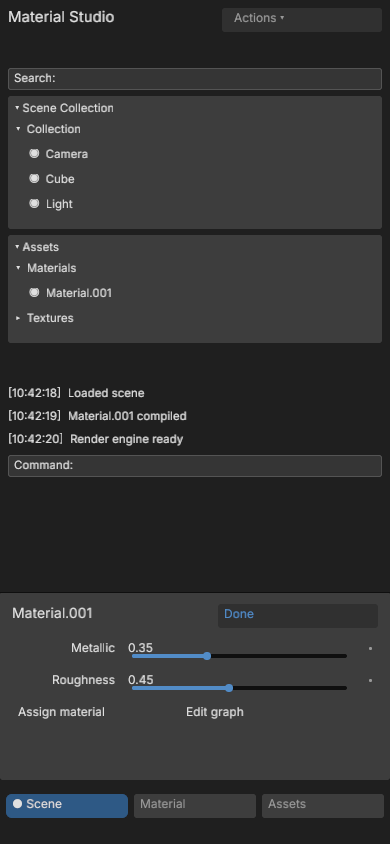
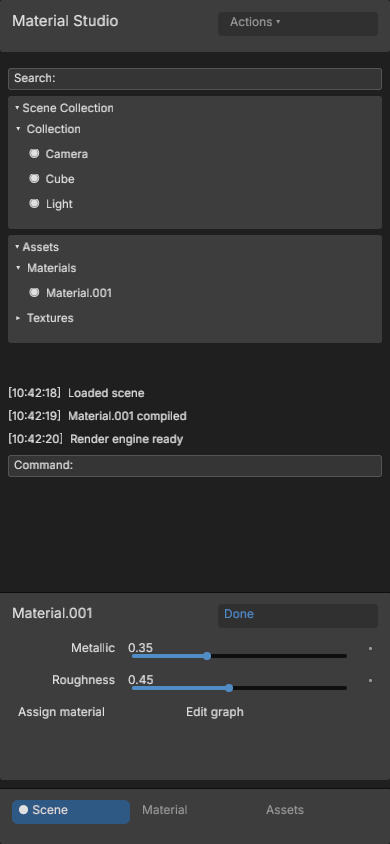
Paint chrome appearance surfaces across desktop and compact layouts

Changed region(s): [[0.0, 0.9242, 1.0, 1.0], [0.0, 0.0, 1.0, 0.0616]]

diff --git a/crates/bbui/src/chrome.rs b/crates/bbui/src/chrome.rs
@@ -51,7 +51,7 @@ impl Default for DesktopChromeAppearance {
         let mut control_style = chrome_style(
             16.0,
             ThemeColorToken::MutedText,
-            Some(ThemeColorToken::Surface),
+            Some(ThemeColorToken::Background),
         );
         control_style.set(UiStyleProperty::CornerRadius, UiStyleValue::Scalar(5.0));
         Self {
@@ -66,11 +66,7 @@ impl Default for DesktopChromeAppearance {
             close_label: "×".into(),
             show_window_controls: true,
             surface_style,
-            title_style: chrome_style(
-                14.0,
-                ThemeColorToken::Text,
-                Some(ThemeColorToken::Background),
-            ),
+            title_style: chrome_style(14.0, ThemeColorToken::Text, Some(ThemeColorToken::Surface)),
             menu_style: chrome_style(
                 12.0,
                 ThemeColorToken::MutedText,
@@ -273,14 +269,17 @@ impl DesktopChrome {
                 );
             }
         }
-        WidgetNode::row(row)
-            .with_key("chrome:desktop")
-            .with_role("window-chrome")
+        WidgetNode::boxed([WidgetNode::row(row)
             .with_width(UiLength::Fill(1.0))
-            .with_height(UiLength::Px(appearance.height))
-            .with_padding(appearance.padding)
-            .with_gap(appearance.gap)
-            .with_style(appearance.surface_style.clone())
+            .with_height(UiLength::Fill(1.0))
+            .with_gap(appearance.gap)])
+        .with_key("chrome:desktop")
+        .with_role("box")
+        .with_width(UiLength::Fill(1.0))
+        .with_height(UiLength::Px(appearance.height))
+        .with_padding(appearance.padding)
+        .with_gap(appearance.gap)
+        .with_style(appearance.surface_style.clone())
     }
 }
 
@@ -335,7 +334,7 @@ impl MobileChrome {
         sheet: Option<WidgetNode>,
         appearance: &MobileChromeAppearance,
     ) -> WidgetNode {
-        let toolbar = WidgetNode::row([
+        let toolbar = WidgetNode::boxed([WidgetNode::row([
             WidgetNode::label(&self.title)
                 .with_width(UiLength::Fill(1.0))
                 .with_style(appearance.title_style.clone()),
@@ -343,8 +342,10 @@ impl MobileChrome {
                 .with_key("chrome:mobile:commands")
                 .with_style(appearance.menu_style.clone()),
         ])
+        .with_width(UiLength::Fill(1.0))
+        .with_height(UiLength::Fill(1.0))])
         .with_key("chrome:mobile:toolbar")
-        .with_role("mobile-toolbar")
+        .with_role("box")
         .with_height(UiLength::Px(appearance.toolbar_height))
         .with_padding(UiEdges::all(8.0))
         .with_style(appearance.toolbar_style.clone());
@@ -376,7 +377,7 @@ impl MobileChrome {
             );
         }
         body.push(
-            WidgetNode::row(self.navigation.iter().map(|item| {
+            WidgetNode::boxed([WidgetNode::row(self.navigation.iter().map(|item| {
                 let label = if self.selected.as_deref() == Some(&item.id) {
                     format!("{} {}", appearance.selected_indicator, item.label)
                 } else {
@@ -393,8 +394,11 @@ impl MobileChrome {
                         appearance.navigation_item_style.clone()
                     })
             }))
+            .with_width(UiLength::Fill(1.0))
+            .with_height(UiLength::Fill(1.0))
+            .with_gap(6.0)])
             .with_key("chrome:mobile:bottom-nav")
-            .with_role("mobile-bottom-nav")
+            .with_role("box")
             .with_tab_list()
             .with_height(UiLength::Px(appearance.navigation_height))
             .with_padding(UiEdges::all(6.0))
